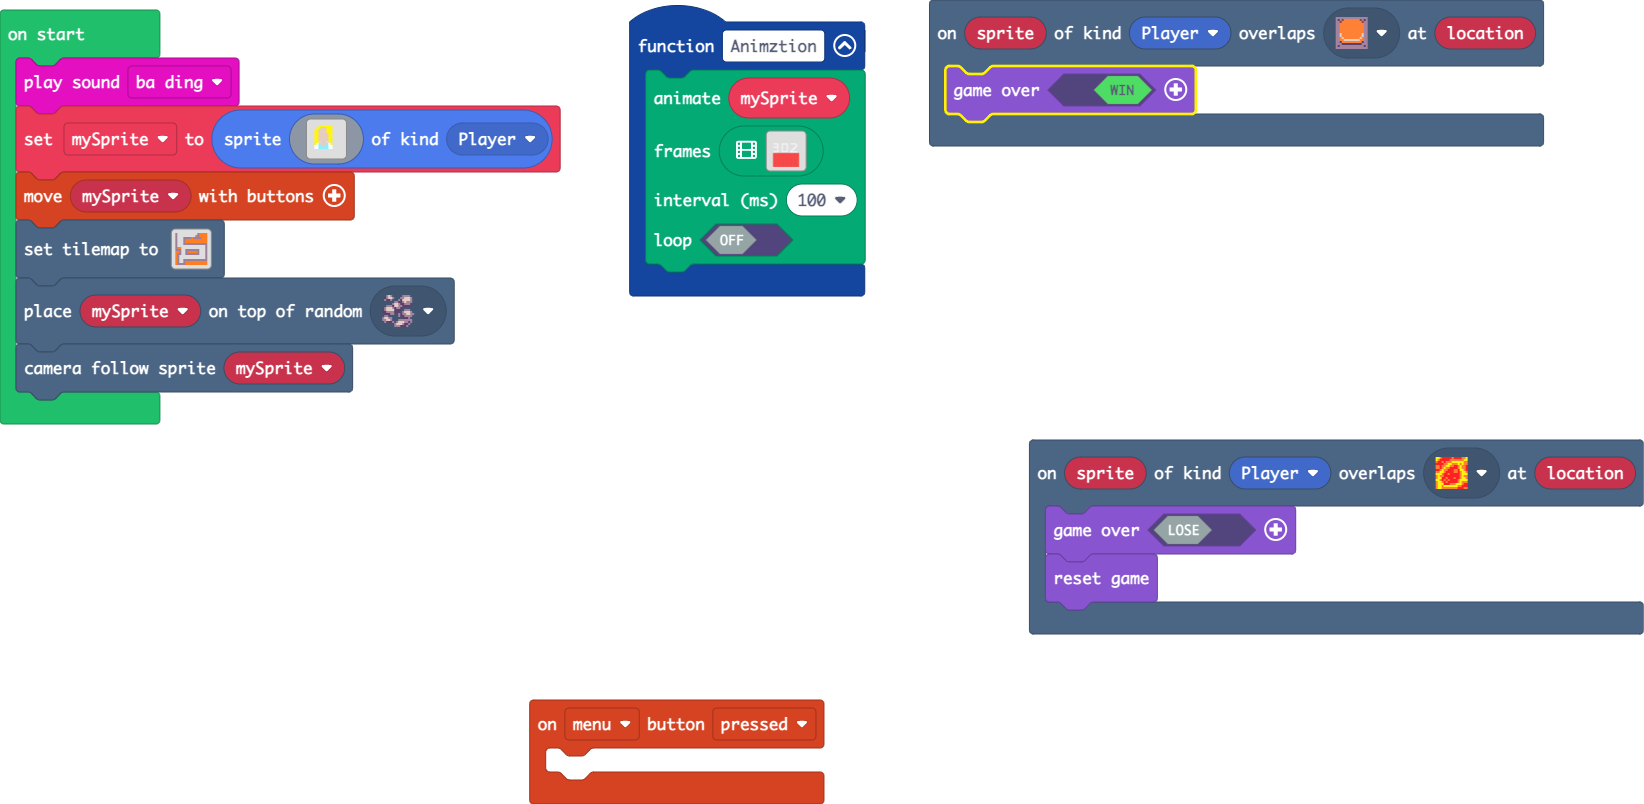
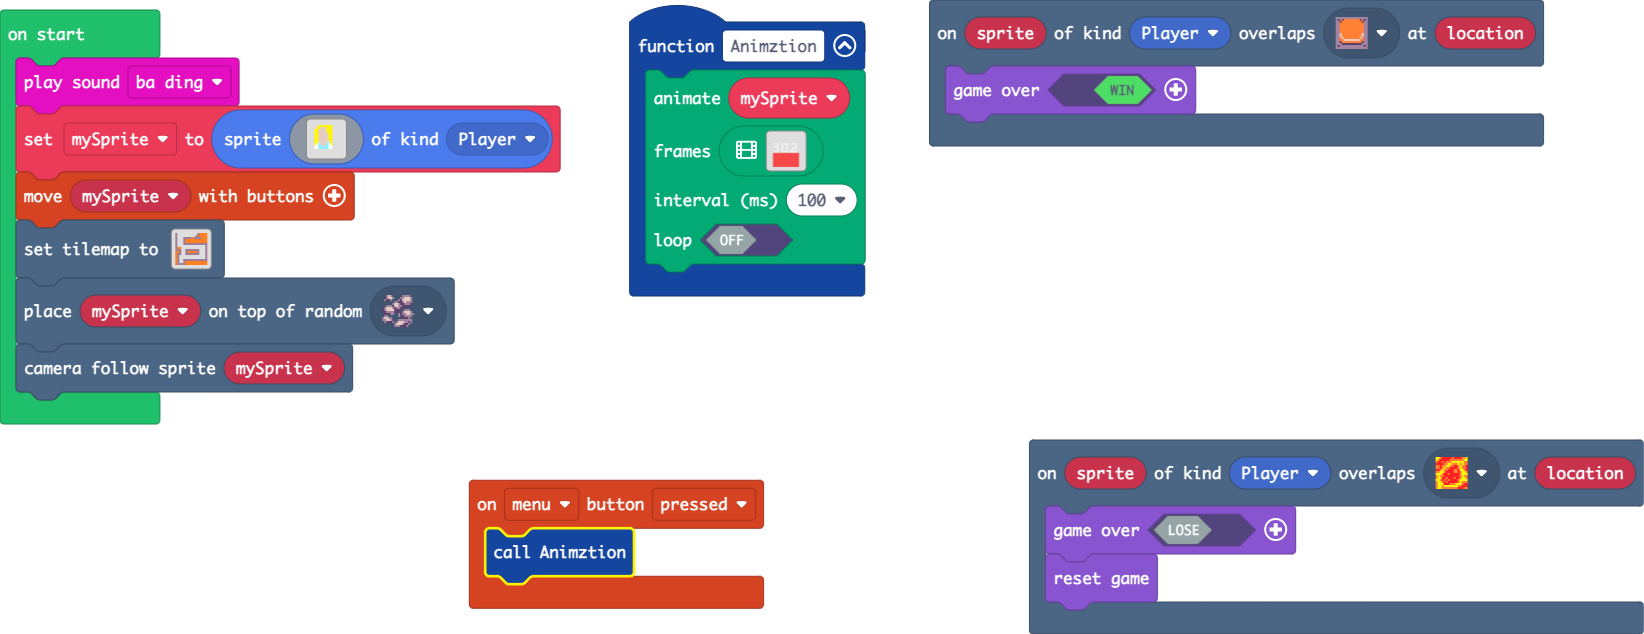
Update main.blocks, main.ts

diff --git a/main.ts b/main.ts
@@ -1418,7 +1418,7 @@ function Animztion () {
     )
 }
 controller.menu.onEvent(ControllerButtonEvent.Pressed, function () {
-	
+    Animztion()
 })
 scene.onOverlapTile(SpriteKind.Player, sprites.dungeon.buttonOrange, function (sprite, location) {
     game.over(true)
